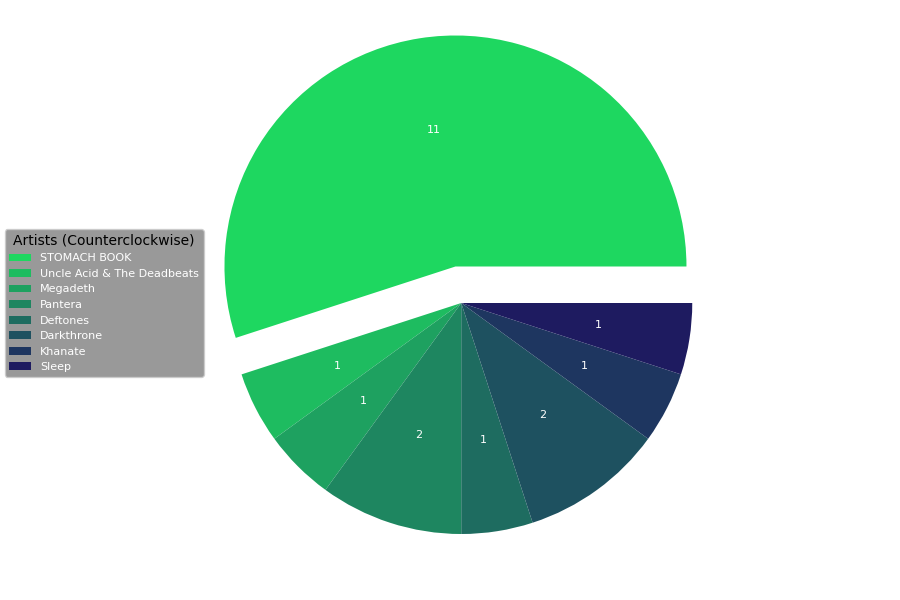
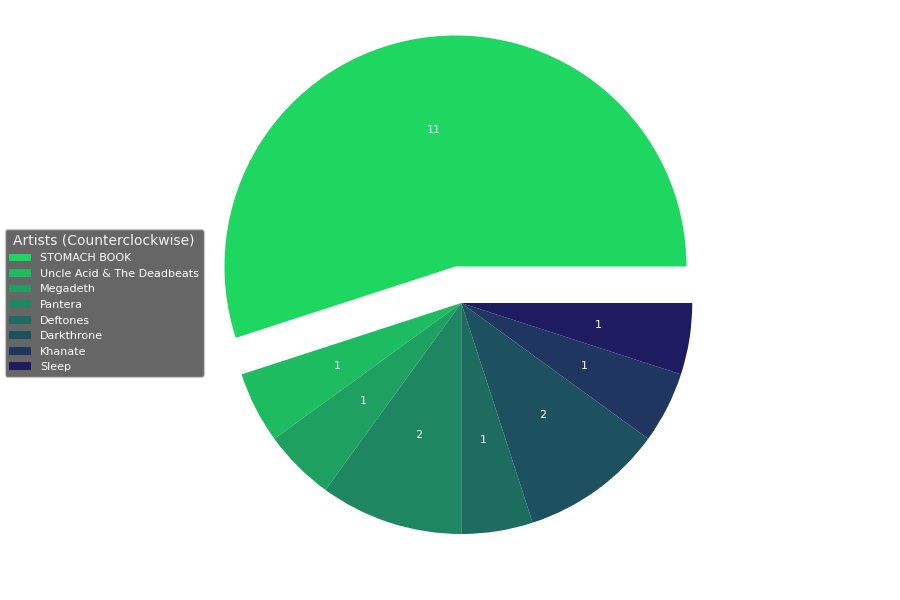
Colored pie chart legend titles white, dried code for drawing the pie charts

Changed region(s): [[0.0, 0.36, 0.2489, 0.63]]

diff --git a/app.py b/app.py
@@ -273,42 +273,42 @@ def top10():
     title_yOffset = 1.1
     fontsize = 8
 
-    # Chart 1
+    def draw_chart(sizes, labels, title):
+        colors = []
+        sub_value = 215 / len(labels)
+        for i in range(0, len(labels)):
+            col_val = (215 - sub_value * i) / 255
+            colors.append((30/255, col_val, 96/255))
+
+        greatest_slice = max(sizes)
+        max_i = sizes.index(greatest_slice)
+        explode_val = tuple([0 if i != max_i else 0.2 for i in range(len(sizes))])
+
+        _, ax = plt.subplots(figsize=figsize)
+        wedges, _, autotexts = ax.pie(sizes, autopct=percent_to_int, explode=explode_val, radius=radius, textprops={'fontsize': fontsize}, colors=colors)
+        for txt in autotexts:
+            txt.set_color('white')
+        
+        leg = ax.legend(wedges, labels, title='Artists (Counterclockwise)', loc='center left', fontsize=fontsize)
+        bb = leg.get_bbox_to_anchor().transformed(ax.transAxes.inverted())
+        bb.x0 += legend_xOffset
+        bb.x1 += legend_xOffset
+        leg.set_bbox_to_anchor(bb, transform=ax.transAxes)
+        leg_frame = leg.get_frame()
+        leg_frame.set_facecolor((0.25, 0.25, 0.25))
+        leg.get_title().set_color((0.95, 0.95, 0.95))
+        for text in leg.get_texts():
+            text.set_color('white')
+
+        title = ax.set_title(title, y=title_yOffset)
+        title.set_color('white')
 
     for info in artist_appearances:
         sizes.append(int(info[1]))
         labels.append(info[0])
 
-    colors = []
-    sub_value = 215 / len(labels)
-    for i in range(0, len(labels)):
-        col_val = (215 - sub_value * i) / 255
-        colors.append((30/255, col_val, 96/255))
-
-    greatest_slice = max(sizes)
-    max_i = sizes.index(greatest_slice)
-    explode_val = tuple([0 if i != max_i else 0.2 for i in range(len(sizes))])
-
-    _, ax = plt.subplots(figsize=figsize)
-    wedges, _, autotexts = ax.pie(sizes, autopct=percent_to_int, explode=explode_val, radius=radius, textprops={'fontsize': fontsize}, colors=colors)
-    for txt in autotexts:
-        txt.set_color('white')
-
-    leg = ax.legend(wedges, labels, title='Artists (Counterclockwise)', loc='center left', fontsize=fontsize)
-    bb = leg.get_bbox_to_anchor().transformed(ax.transAxes.inverted())
-    bb.x0 += legend_xOffset
-    bb.x1 += legend_xOffset
-    leg.set_bbox_to_anchor(bb, transform=ax.transAxes)
-    leg_frame = leg.get_frame()
-    leg_frame.set_facecolor((0.5, 0.5, 0.5))
-    for text in leg.get_texts():
-        text.set_color('white')
-
-    title = ax.set_title(f"Artist appearances in top + past liked {int(track_limit) * 2} tracks", y=title_yOffset)
-    title.set_color('white')
+    draw_chart(sizes, labels, f"Artist appearances in top + past liked {int(track_limit) * 2} tracks")
     plt.savefig('static/chart1.png', transparent=True)
-
-    # Chart 2
 
     labels = []
     sizes = []
@@ -318,33 +318,7 @@ def top10():
         sizes.append(int(info[2]))
         labels.append(info[0])
 
-    colors = []
-    sub_value = 215 / len(labels)
-    for i in range(0, len(labels)):
-        col_val = (215 - sub_value * i) / 255
-        colors.append((30/255, col_val, 96/255))
-
-    greatest_slice = max(sizes)
-    max_i = sizes.index(greatest_slice)
-    explode_val = tuple([0 if i != max_i else 0.2 for i in range(len(sizes))])
-
-    _, ax = plt.subplots(figsize=figsize)
-    wedges, _, autotexts = ax.pie(sizes, autopct=percent_to_int, explode=explode_val, radius=radius, textprops={'fontsize': fontsize}, colors=colors)
-    for txt in autotexts:
-        txt.set_color('white')
-    
-    leg = ax.legend(wedges, labels, title='Artists (Counterclockwise)', loc='center left', fontsize=fontsize)
-    bb = leg.get_bbox_to_anchor().transformed(ax.transAxes.inverted())
-    bb.x0 += legend_xOffset
-    bb.x1 += legend_xOffset
-    leg.set_bbox_to_anchor(bb, transform=ax.transAxes)
-    leg_frame = leg.get_frame()
-    leg_frame.set_facecolor((0.5, 0.5, 0.5))
-    for text in leg.get_texts():
-        text.set_color('white')
-
-    title = ax.set_title('Artist appearances in top ' + str(track_limit) + ' tracks', y=title_yOffset)
-    title.set_color('white')
+    draw_chart(sizes, labels, 'Artist appearances in top ' + str(track_limit) + ' tracks')
     plt.savefig('static/chart2.png', transparent=True)
 
     return render_template('top10.html', top_artists=top_artists, top_albums=top_albums, top_tracks=top_tracks)
